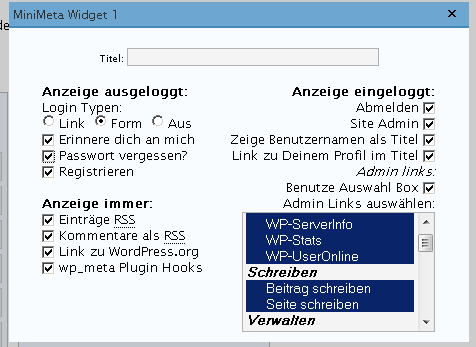
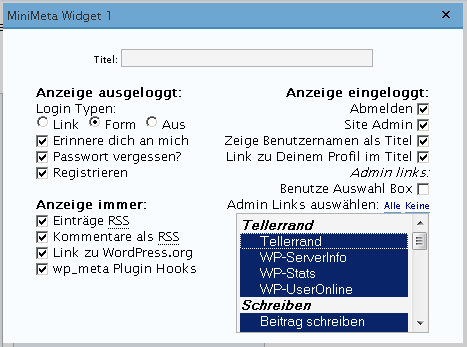
custum style sheet and support for it

diff --git a/minimeta-widget.css b/minimeta-widget.css
@@ -1,0 +1,29 @@
+option.minimeta-adminlinks {  /* selectbox settings */  
+ margin-left: 15px;
+}
+optgroup,option,select.minimeta-adminlinks {  /* selectbox settings */  
+ font-size:11px;
+}
+
+li.minimeta-adminlinks_menu {  /* menu settings*/
+ font-weight: bold;
+ font-style:italic;
+}
+ul.minimeta-adminlinks{  /* link ul settings  */
+ margin-left: 15px;
+}
+a.minimeta-adminlinks{  /* link settings */
+
+}
+
+a.minimeta-logout {  /*Logout link in red */
+ color:red;
+}
+ /* Resets 1em to 10px */
+a.minimeta-login,
+a.minimeta-lostpw,
+a.minimeta-rss,
+a.minimeta-commentsrss,
+a.minimeta-wporg{
+
+}

diff --git a/minimeta-widget.php b/minimeta-widget.php
@@ -114,33 +114,33 @@ function widget_minnimeta_init() {
 
             echo "<ul>";
                 if($options[$number]['seiteadmin']) {wp_register();}
-                if($options[$number]['logout']) echo "<li><a href=\"".get_bloginfo('wpurl')."/wp-login.php?action=logout&amp;redirect_to=".$_SERVER['REQUEST_URI']."\" title=\"".__('Logout')."\" class=\"logout\" >".__('Logout')."</a></li>"; 
+                if($options[$number]['logout']) echo "<li><a href=\"".get_bloginfo('wpurl')."/wp-login.php?action=logout&amp;redirect_to=".$_SERVER['REQUEST_URI']."\" title=\"".__('Logout')."\" class=\"minimeta-logout\">".__('Logout')."</a></li>"; 
                 
                 if (sizeof($options[$number]['adminlinks'])>0) { //show only if a Admin Link is selectesd
-                 if (file_exists('adminlinks_user.php')) { //include Admi Links Data
-                  include('adminlinks_user.php');
+                 if (file_exists('custom/minimeta-adminlinks.php')) { //include Admi Links Data
+                  include('custom/minimeta-adminlinks.php');
                  } else {
-                  include('adminlinks_std.php');
+                  include('minimeta-adminlinks.php');
                  }           
                  if ($options[$number]['useselectbox']) { 
-                  echo "<li><select class=\"admin-links\" tabindex=\"95\" onchange=\"window.location = this.value\"><option selected=\"selected\">".__('Pleace select:')."</option>";
+                  echo "<li><select class=\"minimeta-adminlinks\" tabindex=\"95\" onchange=\"window.location = this.value\"><option selected=\"selected\">".__('Pleace select:','MiniMetaWidget')."</option>";
                  }   
                  foreach ($adminlinks as $menu) {
                   $output="";
                   foreach ($menu as $submenu) {
                     if(current_user_can($submenu[1]) and is_array($submenu) and in_array($submenu[2],$options[$number]['adminlinks'])) {
                       if ($options[$number]['useselectbox']) {
-                       $output.= "<option value=\"".get_bloginfo('wpurl')."/wp-admin/".$submenu[2]."\">".$submenu[0]."</option>";
+                       $output.= "<option value=\"".get_bloginfo('wpurl')."/wp-admin/".$submenu[2]."\" class=\"minimeta-adminlinks\">".$submenu[0]."</option>";
                       } else {
-                       $output.= "<li><a href=\"".get_bloginfo('wpurl')."/wp-admin/".$submenu[2]."\" title=\"".$submenu[0]."\">".$submenu[0]."</a></li>";
+                       $output.= "<li class=\"minimeta-adminlinks\"><a href=\"".get_bloginfo('wpurl')."/wp-admin/".$submenu[2]."\" title=\"".$submenu[0]."\" class=\"minimeta-adminlinks\">".$submenu[0]."</a></li>";
                       }
                     }
                   }
                   if (!empty($output)) {
                    if ($options[$number]['useselectbox']) {
-                    echo "<optgroup label=\"".$menu['menu']."\">";
+                    echo "<optgroup label=\"".$menu['menu']."\" class=\"minimeta-adminlinks\">";
                    } else {
-                    echo "<li>".$menu['menu']."</li><ul class=\"children\">";
+                    echo "<li class=\"minimeta-adminlinks_menu\">".$menu['menu']."</li><ul class=\"minimeta-adminlinks\">";
                    }
                    echo $output;
                    if ($options[$number]['useselectbox']) {
@@ -175,14 +175,14 @@ function widget_minnimeta_init() {
 				</form><?php
 			}
             echo "<ul>";
-			if($options[$number]['login']=='link') echo "<li><a href=\"".get_bloginfo('wpurl')."/wp-login.php?action=login&amp;redirect_to=".$_SERVER['REQUEST_URI']."\" title=\"".__('Login')."\">".__('Login')."</a></li>";
-			if($options[$number]['lostpwlink']) echo "<li><a href=\"".get_bloginfo('wpurl')."/wp-login.php?action=lostpassword\" title=\"".__('Password Lost and Found')."\">".__('Lost your password?')."</a></li>";
+			if($options[$number]['login']=='link') echo "<li><a href=\"".get_bloginfo('wpurl')."/wp-login.php?action=login&amp;redirect_to=".$_SERVER['REQUEST_URI']."\" title=\"".__('Login')."\" class=\"minimeta-login\">".__('Login')."</a></li>";
+			if($options[$number]['lostpwlink']) echo "<li><a href=\"".get_bloginfo('wpurl')."/wp-login.php?action=lostpassword\" title=\"".__('Password Lost and Found')."\" class=\"minimeta-lostpw\">".__('Lost your password?')."</a></li>";
 			if($options[$number]['registerlink']) wp_register();
 		} 
 
-		if($options[$number]['rsslink']) echo "<li><a href=\"".get_bloginfo('rss2_url')."\" title=\"".attribute_escape(__('Syndicate this site using RSS 2.0'))."\">".__('Entries <abbr title="Really Simple Syndication">RSS</abbr>')."</a></li>";
-		if($options[$number]['rsscommentlink']) echo "<li><a href=\"".get_bloginfo('comments_rss2_url')."\" title=\"".attribute_escape(__('The latest comments to all posts in RSS'))."\">".__('Comments <abbr title="Really Simple Syndication">RSS</abbr>')."</a></li>";
-		if($options[$number]['wordpresslink']) echo "<li><a href=\"http://wordpress.org/\" title=\"".attribute_escape(__('Powered by WordPress, state-of-the-art semantic personal publishing platform.'))."\">WordPress.org</a></li>";
+		if($options[$number]['rsslink']) echo "<li><a href=\"".get_bloginfo('rss2_url')."\" title=\"".attribute_escape(__('Syndicate this site using RSS 2.0'))."\" class=\"minimeta-rss\">".__('Entries <abbr title="Really Simple Syndication">RSS</abbr>')."</a></li>";
+		if($options[$number]['rsscommentlink']) echo "<li><a href=\"".get_bloginfo('comments_rss2_url')."\" title=\"".attribute_escape(__('The latest comments to all posts in RSS'))."\" class=\"minimeta-commentsrss\">".__('Comments <abbr title="Really Simple Syndication">RSS</abbr>')."</a></li>";
+		if($options[$number]['wordpresslink']) echo "<li><a href=\"http://wordpress.org/\" title=\"".attribute_escape(__('Powered by WordPress, state-of-the-art semantic personal publishing platform.'))."\" class=\"minimeta-wporg\">WordPress.org</a></li>";
 		if($options[$number]['showwpmeta']) wp_meta();
 		echo "</ul>";
 		echo $args['after_widget'];
@@ -286,10 +286,10 @@ function widget_minnimeta_init() {
          <label for="minimeta-adminlinks-<?php echo $number; ?>" title="<?php _e('Admin Links Selection','MiniMetaWidget');?>"><?php _e('Select Admin Links:','MiniMetaWidget');?> <a href="javascript:selectAll_widget_minimeta(document.getElementById('minimeta-adminlinks-<?php echo $number; ?>'),true)" style="font-size:9px;"><?php _e('All'); ?></a> <a href="javascript:selectAll_widget_minimeta(document.getElementById('minimeta-adminlinks-<?php echo $number; ?>'),false)" style="font-size:9px;"><?php _e('None'); ?></a><br />
          <select class="select" type="select" tabindex="95" size="7" name="minimeta-adminlinks-<?php echo $number; ?>[]" id="minimeta-adminlinks-<?php echo $number; ?>" multiple="multiple">
          <?PHP
-            if (file_exists('adminlinks_user.php')) {
-             include('adminlinks_user.php');
+            if (file_exists('custom/minimeta-adminlinks.php')) {
+             include('custom/minimeta-adminlinks.php');
             } else {
-             include('adminlinks_std.php');
+             include('minimeta-adminlinks.php');
             }
             foreach ($adminlinks as $menu) {
              echo "<optgroup label=\"".$menu['menu']."\">";
@@ -352,8 +352,9 @@ function widget_minnimeta_init() {
         <?php
     }   
     
-    //copy action login_head to wp-head if login form enabeld for plugin hooks
-	function widget_minimeta_login_head_to_wp_head() {
+    //WP-Head hooks
+	function widget_minimeta_wp_head() {
+      if (!is_user_logged_in()) {   //copy action login_head to wp-head if login form enabeld for plugin hooks 
         if (K2_USING_SBM) {
             //can't find out is lofin form active in K2 modules thats why its ollways on.
             do_action('login_head'); //do action from login had
@@ -365,7 +366,14 @@ function widget_minnimeta_init() {
                $options[7]['login']=='form' or $options[8]['login']=='form' or $options[9]['login']=='form') {
              do_action('login_head'); //do action from login had
             }
-        }    
+        }
+      } 
+      //Set Style sheet
+      if (file_exists('custom/minimeta-widget.css')) {
+        echo "<link rel=\"stylesheet\" href=\"".get_bloginfo('wpurl')."/wp-content/plugins/".dirname(plugin_basename(__FILE__))."/custom/minimeta-widget.css\" type=\"text/css\" media=\"screen\" />";
+      } else {
+        echo "<link rel=\"stylesheet\" href=\"".get_bloginfo('wpurl')."/wp-content/plugins/".dirname(plugin_basename(__FILE__))."/minimeta-widget.css\" type=\"text/css\" media=\"screen\" />";
+      }
     }
     
     
@@ -388,7 +396,7 @@ function widget_minnimeta_init() {
 	  add_action('sidebar_admin_setup', 'widget_minimeta_setup');
 	  add_action('sidebar_admin_page', 'widget_minimeta_page');
      }
-     if (!is_user_logged_in()) add_action('wp_head', 'widget_minimeta_login_head_to_wp_head');
+     add_action('wp_head', 'widget_minimeta_wp_head');
     }
     
     
